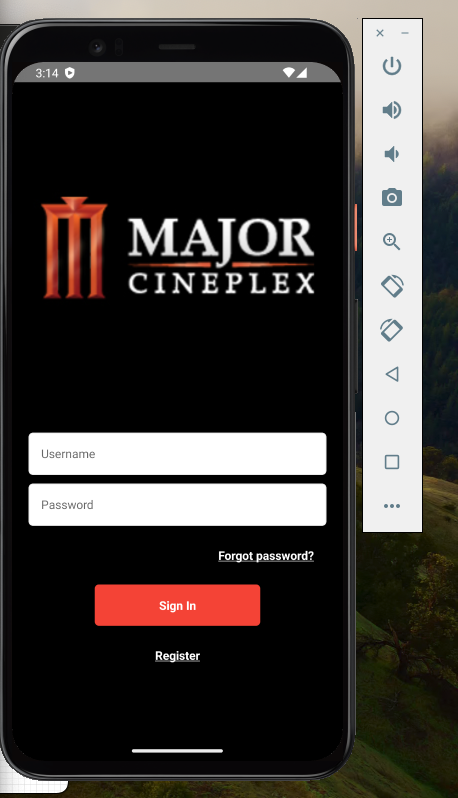
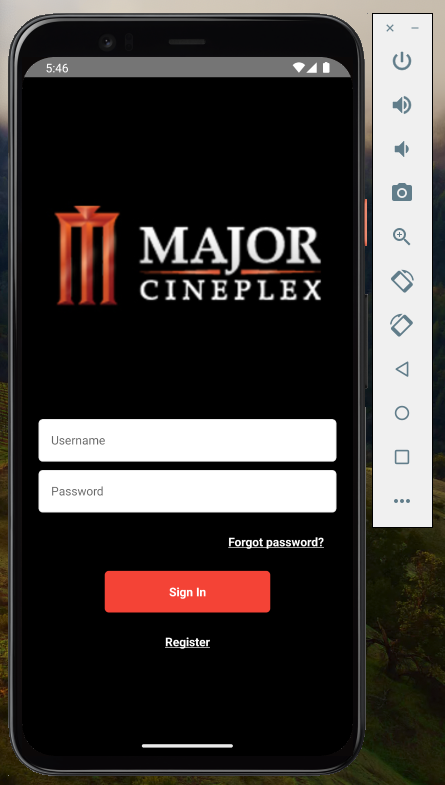
Update
create confirm code page

diff --git a/src/components/custom/button/Button.tsx b/src/components/custom/button/Button.tsx
@@ -52,6 +52,27 @@ const styles: {[key:string]:any} = StyleSheet.create({
         alignItems:'center',
         borderRadius:5
     },
+    Container_ConfirmPage_confirm: {
+        width: '50%',
+        padding:15,
+        marginVertical:5,
+        alignItems:'center',
+        borderRadius:5
+    },
+    Container_ConfirmPage_resend: {
+        width: '50%',
+        padding:15,
+        marginVertical:5,
+        alignItems:'center',
+        borderRadius:5
+    },
+    Container_ConfirmPage_back: {
+        width: '50%',
+        padding:15,
+        marginVertical:5,
+        alignItems:'center',
+        borderRadius:5
+    },
     Button_SignInPage_signIn : {
         backgroundColor: '#f44336',
     },
@@ -63,6 +84,18 @@ const styles: {[key:string]:any} = StyleSheet.create({
     },
     Button_RegisterPage_register : {
         backgroundColor: '#f44336',
+    },
+    Button_RegisterPage_confirm : {
+        backgroundColor: '#f44336'
+    },
+    Button_ConfirmPage_confirm : {
+        backgroundColor: '#f44336'
+    },
+    Button_ConfirmPage_back : {
+        backgroundColor: '#000000',
+    },
+    Button_ConfirmPage_resend : {
+        backgroundColor: '#f1c232',
     },
     text: {
         fontWeight:'bold',
@@ -85,6 +118,15 @@ const styles: {[key:string]:any} = StyleSheet.create({
     Text_RegisterPage_register : {
         color: '#ffffff',
         fontWeight: 'bold',
+    },
+    Text_ConfirmPage_confirm : {
+        color: '#ffffff',
+        fontWeight: 'bold'
+    },
+    Text_ConfirmPage_back : {
+        color: '#ffffff',
+        fontWeight: 'bold',
+        textDecorationLine: 'underline',
     }
 })
 

diff --git a/src/screens/confirm/Confirm.tsx b/src/screens/confirm/Confirm.tsx
@@ -1,0 +1,43 @@
+import { View, Text, StyleSheet } from 'react-native'
+import React, {useState} from 'react'
+import Input from '../../components/custom/input'
+import Button from '../../components/custom/button/Button'
+const Confirm = () => {
+  const [code, setCode] = useState('');
+
+  const onConfirmPressed = () => {
+      console.warn("confirm")
+  }
+  const onResendCodePressed = () => {
+      console.warn("resend code")
+  }
+  const onBackPressed = () => {
+      console.warn("back")
+  }
+
+  return (
+      <View style={styles.root}>
+          <Text style={styles.title}>Confirm your email</Text>
+          <Input placeholder={"Enter your confirmation code"} value={code} setValue={setCode} secureTextEntry={false} />
+          <Button text='Confirm Code' onPress={onConfirmPressed} page="ConfirmPage" type="confirm" />
+          <Button text='Resend Code' onPress={onResendCodePressed} page="ConfirmPage" type="resend" />
+          <Button text='Back To Sign In' onPress={onBackPressed} page="ConfirmPage" type="back"/>
+      </View>
+  )
+}
+
+const styles = StyleSheet.create({
+  root: {
+      flex:1,
+      alignItems: 'center',
+      marginTop: 20
+  },
+  title: {
+      fontSize: 24,
+      fontWeight: 'bold',
+      color: '#ffffff',
+      margin: 10
+  }
+})
+
+export default Confirm

diff --git a/src/screens/register/Register.tsx b/src/screens/register/Register.tsx
@@ -36,7 +36,6 @@ const register = () => {
                 <Text style={styles.policyLink} onPress={onTermOfUsePressed} >Terms of Use</Text> and {' '}
                 <Text style={styles.policyLink} onPress={onPrivacyPressed} >Privacy Policy</Text>
             </Text>
-
         </View>
     )
 }
@@ -45,7 +44,7 @@ const styles = StyleSheet.create({
     root: {
         flex:1,
         alignItems: 'center',
-        marginTop: 150
+        marginTop: 20
     },
     title: {
         fontSize: 24,
@@ -56,7 +55,7 @@ const styles = StyleSheet.create({
     policy: {
         fontSize: 15,
         color: '#ffffff',
-        marginTop: 100
+        marginTop: 250
     },
     policyLink: {
         fontSize: 15,

diff --git a/App.tsx b/App.tsx
@@ -3,14 +3,15 @@ import { View, Text, SafeAreaView, StyleSheet, Image ,useWindowDimensions} from 
 
 import SignIn from './src/screens/signin/SignIn' 
 import Register from './src/screens/register'
-
+import Confirm from './src/screens/confirm/Confirm'
 const App = () => {
 
 
   return (
     <SafeAreaView style={[styles.root]}>
       {/* <SignIn/> */}
-      <Register/>
+      {/* <Register/> */}
+      <Confirm/>
     </SafeAreaView>
   )
 }

diff --git a/src/screens/signin/SignIn.tsx b/src/screens/signin/SignIn.tsx
@@ -36,7 +36,7 @@ const styles = StyleSheet.create({
     root : {
         flex:1,
         alignItems: 'center',
-        marginTop:50
+        marginTop: 20
     },
     logo : {
       backgroundColor: '#000000',

diff --git a/src/screens/confirm/index.tsx b/src/screens/confirm/index.tsx
@@ -1,0 +1,1 @@
+export { default } from './Confirm';
